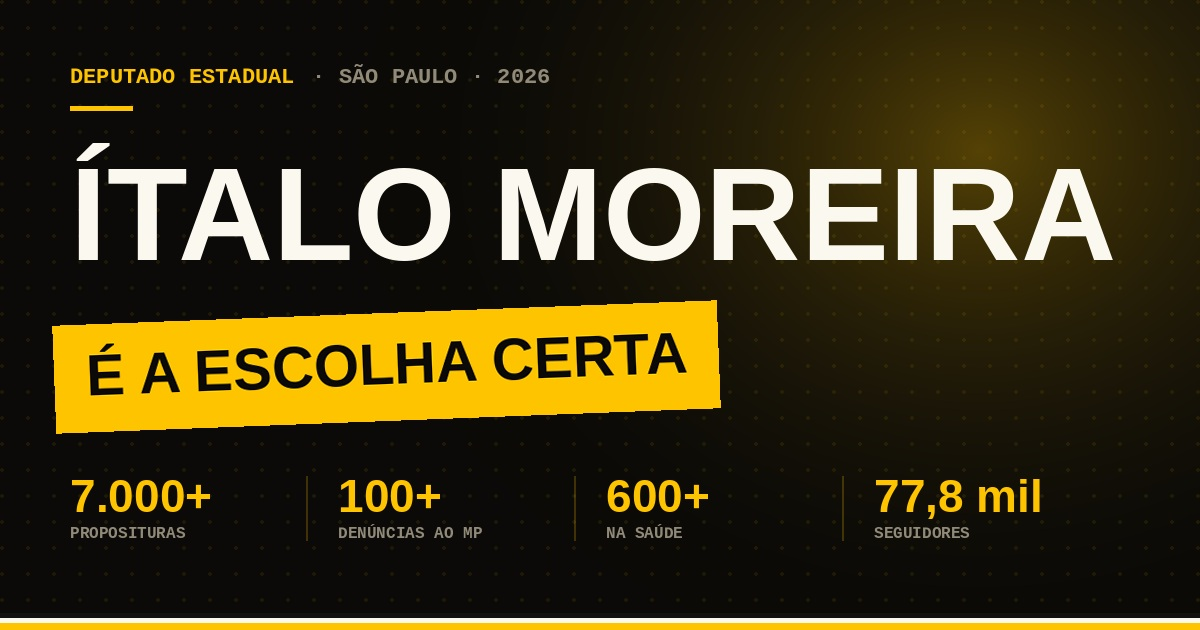
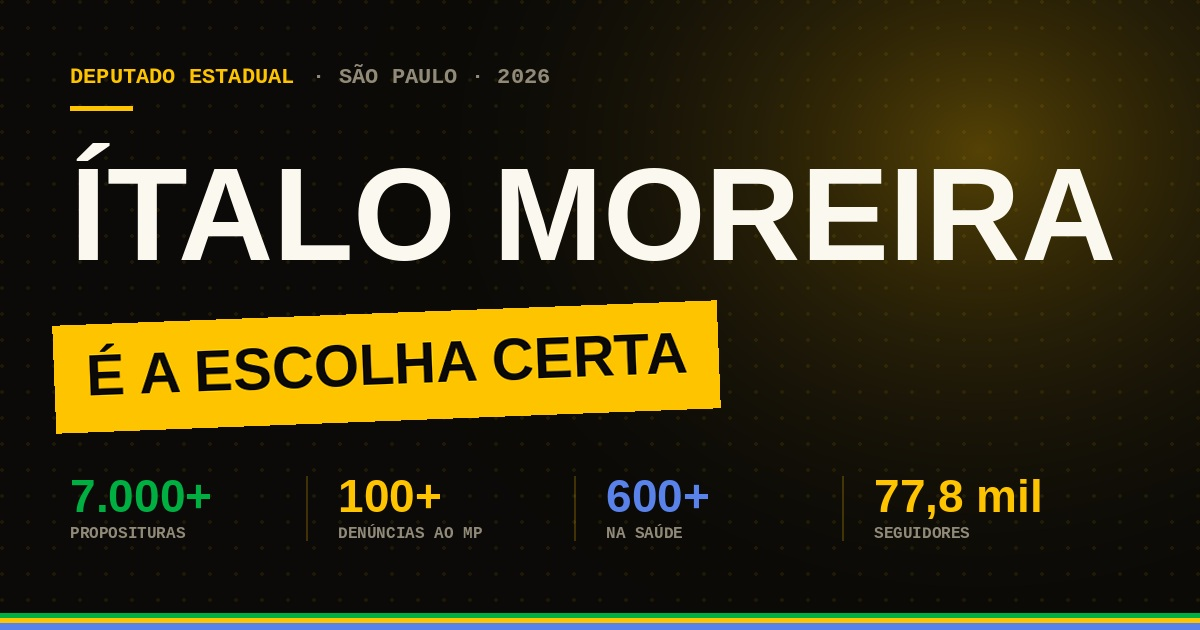
Clareia a pagina e traz as cores da bandeira como detalhe
Alterna secoes claras e escuras para dar respiro: numeros, fatos, Renan e
faca-parte passam a fundo claro, com costura tricolor entre os blocos. Verde
e azul entram nos numeros do mandato, icones, traco das sobrancelhas e barra
de progresso, com o amarelo fazendo a ponte entre Missao e bandeira.

Corrige negrito que ficava invisivel no fundo claro e adapta o tratamento das
fotos, que fora calibrado so para fundo escuro. Restaura a foto do topo a
pedido do cliente; a ressalva sobre a identidade fica registrada no LEIA-ME.

Claude-Session: https://claude.ai/code/session_011W89nM4SC4WJ6gK1msPnMM

Changed region(s): [[0.0, 0.9651, 1.0, 1.0], [0.0617, 0.754, 0.185, 0.8143], [0.4933, 0.754, 0.5858, 0.8143]]

diff --git a/index.html b/index.html
@@ -29,7 +29,18 @@
     --paper:#FBF8F0;
     --stone:#918A79;
     --line:rgba(255,196,0,.16);
-    --ok:#7DD87D;
+    --ok:#2E7D32;
+    /* bandeira: verde e azul entram como detalhe, amarelo faz a ponte com o Missão */
+    --verde:#009B3A;
+    --azul:#1B3C8F;
+    --verde-soft:rgba(0,155,58,.12);
+    --azul-soft:rgba(27,60,143,.12);
+    /* seções claras */
+    --claro:#F6F3EA;
+    --claro-2:#FFFFFF;
+    --tinta:#15130D;
+    --pedra-clara:#6E675A;
+    --linha-clara:rgba(21,19,13,.10);
     --radius:14px;
     --font-display:-apple-system,BlinkMacSystemFont,"Segoe UI",Roboto,"Helvetica Neue",Arial,sans-serif;
     --font-mono:ui-monospace,"SF Mono","Cascadia Mono","Roboto Mono",Menlo,Consolas,monospace;
@@ -55,8 +66,30 @@
     font-size:12px;letter-spacing:.28em;text-transform:uppercase;
     color:var(--onca);display:inline-flex;align-items:center;gap:10px;
   }
-  .eyebrow::before{content:"";width:34px;height:2px;background:var(--onca);display:inline-block}
+  /* traço tricolor: verde, amarelo e azul em 34px */
+  .eyebrow::before{
+    content:"";width:34px;height:3px;display:inline-block;border-radius:2px;
+    background:linear-gradient(90deg,var(--verde) 0 33%,var(--onca) 33% 66%,var(--azul) 66% 100%);
+  }
   .section{padding:110px 0;position:relative}
+
+  /* ---------- seções claras: o respiro da página ---------- */
+  .section.claro{
+    background:var(--claro);color:var(--tinta);
+    --stone:var(--pedra-clara);
+    --line:var(--linha-clara);
+    --frame-fade:var(--claro);
+  }
+  .section.claro .sec-lead{color:var(--pedra-clara)}
+  .section.claro .sec-title{color:var(--tinta)}
+  .section.claro .eyebrow{color:var(--verde)}
+  /* costura tricolor entre o escuro e o claro */
+  .section.claro::before,.section.claro::after{
+    content:"";position:absolute;left:0;right:0;height:4px;
+    background:linear-gradient(90deg,var(--verde) 0 33.33%,var(--onca) 33.33% 66.66%,var(--azul) 66.66% 100%);
+  }
+  .section.claro::before{top:0}
+  .section.claro::after{bottom:0;opacity:.35}
   .sec-title{
     font-weight:900;text-transform:uppercase;letter-spacing:-.02em;
     font-size:clamp(34px,5vw,58px);line-height:1.02;margin:18px 0 14px;
@@ -70,6 +103,8 @@
   }
   .hl>span{display:inline-block;transform:skew(6deg)}
   .num{font-variant-numeric:tabular-nums}
+  .forte{color:var(--paper);font-weight:800}
+  .section.claro .forte{color:var(--tinta)}
 
   /* reveal on scroll */
   .rv{opacity:0;transform:translateY(28px);transition:opacity .7s cubic-bezier(.2,.7,.2,1),transform .7s cubic-bezier(.2,.7,.2,1)}
@@ -78,7 +113,7 @@
   .rv.d4{transition-delay:.32s}.rv.d5{transition-delay:.4s}
 
   /* ---------- barra de progresso ---------- */
-  #progress{position:fixed;top:0;left:0;height:3px;width:0;background:linear-gradient(90deg,var(--onca),#FFE27A);z-index:99;box-shadow:0 0 12px rgba(255,196,0,.7)}
+  #progress{position:fixed;top:0;left:0;height:3px;width:0;background:linear-gradient(90deg,var(--verde),var(--onca) 50%,var(--azul));z-index:99;box-shadow:0 0 12px rgba(255,196,0,.55)}
 
   /* ---------- nav ---------- */
   nav{
@@ -198,9 +233,17 @@
     position:absolute;inset:0;z-index:2;pointer-events:none;opacity:0;transition:opacity .6s ease;
     background:
       radial-gradient(120% 80% at 50% 8%,rgba(255,196,0,.16),transparent 58%),
-      linear-gradient(180deg,transparent 48%,rgba(11,10,8,.70) 86%,var(--ink) 100%);
+      linear-gradient(180deg,transparent 52%,color-mix(in srgb, var(--frame-fade,var(--ink)) 70%, transparent) 86%,var(--frame-fade,var(--ink)) 100%);
   }
   .photo-frame.ready .duo{opacity:1}
+  .section.claro .duo{
+    background:
+      radial-gradient(120% 80% at 50% 8%,rgba(255,196,0,.10),transparent 60%),
+      linear-gradient(180deg,transparent 62%,rgba(21,19,13,.16) 92%,rgba(21,19,13,.24) 100%);
+  }
+  .section.claro .duo::after{opacity:.05}
+  .section.claro .ph-img{filter:grayscale(.12) contrast(1.04) saturate(.95)}
+  .section.claro .photo-frame::before{opacity:.14}
   .photo-frame .duo::after{
     content:"";position:absolute;inset:0;
     background:var(--onca);mix-blend-mode:color;opacity:.14;
@@ -234,6 +277,8 @@
     white-space:nowrap;padding:0 18px;display:flex;align-items:center;gap:18px;
   }
   .marquee .star{font-size:16px}
+  .marquee span i:nth-of-type(3n+1){color:var(--verde)}
+  .marquee span i:nth-of-type(3n+3){color:var(--azul)}
   @keyframes scroll{to{transform:translateX(-50%)}}
 
   /* ---------- números ---------- */
@@ -242,6 +287,16 @@
   }
   @media(max-width:920px){.stats-grid{grid-template-columns:repeat(2,1fr)}}
   @media(max-width:560px){.stats-grid{grid-template-columns:1fr}}
+  .section.claro .stat,.section.claro .prop{
+    background:var(--claro-2);
+    border-color:rgba(21,19,13,.10);
+    box-shadow:0 2px 10px rgba(21,19,13,.05);
+  }
+  .section.claro .stat .label,.section.claro .prop h3{color:var(--tinta)}
+  .section.claro .stat .note,.section.claro .prop p{color:var(--pedra-clara)}
+  .section.claro .stat:hover,.section.claro .prop:hover{
+    border-color:rgba(0,155,58,.35);box-shadow:0 18px 46px rgba(21,19,13,.12);
+  }
   .stat{
     background:linear-gradient(160deg,var(--coal),var(--ink));
     border:1px solid var(--line);border-radius:var(--radius);
@@ -251,13 +306,13 @@
   .stat:hover{transform:translateY(-6px);border-color:rgba(255,196,0,.45);box-shadow:0 18px 50px rgba(0,0,0,.5)}
   .stat::after{
     content:"";position:absolute;top:0;left:0;right:0;height:3px;
-    background:linear-gradient(90deg,var(--onca),transparent);
+    background:linear-gradient(90deg,var(--acento,var(--onca)),transparent);
     transform:scaleX(0);transform-origin:left;transition:transform .4s;
   }
   .stat:hover::after{transform:scaleX(1)}
   .stat .value{
-    font-weight:900;font-size:clamp(40px,4.6vw,56px);line-height:1;color:var(--onca);
-    letter-spacing:-.02em;
+    font-weight:900;font-size:clamp(40px,4.6vw,56px);line-height:1;
+    color:var(--acento,var(--onca));letter-spacing:-.02em;
   }
   .stat .value small{font-size:.55em;vertical-align:.32em}
   .stat .label{margin-top:10px;font-weight:700;font-size:15px}
@@ -268,17 +323,19 @@
   @media(max-width:920px){.facts{grid-template-columns:1fr}}
   .fact-list{display:flex;flex-direction:column;gap:0}
   .fact{
-    display:flex;gap:20px;padding:22px 6px;border-bottom:1px solid rgba(251,248,240,.08);
+    display:flex;gap:20px;padding:22px 6px;border-bottom:1px solid var(--line);
     transition:background .2s,padding-left .2s;
   }
-  .fact:hover{background:rgba(255,196,0,.04);padding-left:14px}
+  .fact:hover{background:var(--acento-soft,rgba(255,196,0,.06));padding-left:14px}
   .fact .ico{
     flex:0 0 46px;height:46px;border-radius:12px;display:flex;align-items:center;justify-content:center;
-    background:var(--onca-soft);border:1px solid var(--line);font-size:20px;color:var(--onca);
+    background:var(--acento-soft,var(--onca-soft));border:1px solid var(--line);font-size:20px;color:var(--acento,var(--onca));
   }
   .fact h4{font-size:17px;font-weight:800;margin-bottom:3px}
+  .section.claro .fact h4{color:var(--tinta)}
+  .section.claro .fact p{color:var(--pedra-clara)}
   .fact p{color:var(--stone);font-size:15px;line-height:1.55}
-  .fact p b{color:var(--paper)}
+  .fact p b{color:inherit;font-weight:800}
 
   /* ---------- propostas ---------- */
   .props-grid{display:grid;grid-template-columns:repeat(3,1fr);gap:22px;margin-top:56px}
@@ -303,15 +360,26 @@
   .prop p{color:var(--stone);font-size:15px}
   .prop .p-tag{
     position:absolute;top:20px;right:20px;font-family:var(--font-mono);
-    font-size:10px;letter-spacing:.18em;color:rgba(255,196,0,.55);text-transform:uppercase;
+    font-size:10px;letter-spacing:.18em;color:var(--acento,var(--onca));opacity:.6;text-transform:uppercase;
   }
 
   /* ---------- renan ---------- */
-  .renan{
+  .renan.claro{
     background:
-      radial-gradient(900px 500px at 20% 10%,rgba(255,196,0,.10),transparent 60%),
-      linear-gradient(180deg,var(--coal),var(--ink));
-    border-top:1px solid var(--line);border-bottom:1px solid var(--line);
+      radial-gradient(900px 520px at 18% 8%,rgba(0,155,58,.07),transparent 62%),
+      radial-gradient(700px 480px at 88% 92%,rgba(27,60,143,.06),transparent 60%),
+      var(--claro);
+  }
+  .renan.claro blockquote{border-left-color:var(--verde);color:var(--tinta)}
+  .renan.claro .chip{background:var(--claro-2);border-color:var(--linha-clara);color:var(--tinta)}
+  .renan.claro .chip b{color:var(--verde)}
+  .renan.claro .partido-band{background:var(--claro-2);border-color:var(--linha-clara)}
+  .renan.claro .partido-band p{color:var(--pedra-clara)}
+  .renan.claro .partido-band p b{color:var(--tinta)}
+  .renan.claro .photo-frame{
+    background:linear-gradient(160deg,#EDE8DC,#DFD8C8);
+    border-color:var(--linha-clara);
+    box-shadow:0 24px 60px rgba(21,19,13,.16);
   }
   .renan-grid{display:grid;grid-template-columns:.8fr 1.2fr;gap:56px;align-items:center}
   @media(max-width:920px){.renan-grid{grid-template-columns:1fr}}
@@ -450,6 +518,22 @@
   /* ---------- faça parte ---------- */
   .join-grid{display:grid;grid-template-columns:1fr 1fr;gap:60px;align-items:center;margin-top:40px}
   @media(max-width:920px){.join-grid{grid-template-columns:1fr}}
+  .section.claro form.join{
+    background:var(--claro-2);border-color:var(--linha-clara);
+    box-shadow:0 10px 40px rgba(21,19,13,.07);
+  }
+  .section.claro .field input,.section.claro .field select{
+    background:#FAF8F2;border-color:rgba(21,19,13,.16);color:var(--tinta);
+  }
+  .section.claro .field input::placeholder{color:rgba(21,19,13,.32)}
+  .section.claro .field input:focus,.section.claro .field select:focus{
+    border-color:var(--verde);box-shadow:0 0 0 3px rgba(0,155,58,.16);
+  }
+  .section.claro .join-list p{color:var(--pedra-clara)}
+  .section.claro .join-list p b{color:var(--tinta)}
+  .section.claro .join-list .item:nth-child(1) .n{background:var(--verde);color:#fff}
+  .section.claro .join-list .item:nth-child(3) .n{background:var(--azul);color:#fff}
+  .section.claro .join-ok{background:rgba(0,155,58,.08);border-color:rgba(0,155,58,.35);color:#1B6B2E}
   form.join{
     background:linear-gradient(165deg,var(--coal),var(--ink));
     border:1px solid var(--line);border-radius:20px;padding:40px 36px;
@@ -591,7 +675,7 @@
 </div>
 
 <!-- ======================= NÚMEROS ======================= -->
-<section class="section" id="mandato">
+<section class="section claro" id="mandato">
   <div class="wrap">
     <span class="eyebrow rv">O mandato em números</span>
     <h2 class="sec-title rv">Ninguém trabalhou<br>tanto quanto ele</h2>
@@ -600,35 +684,35 @@
       Não é promessa: é histórico comprovado.
     </p>
     <div class="stats-grid">
-      <div class="stat rv"><div class="value num" data-count="7000">0</div><div class="label">Proposituras apresentadas</div><div class="note">1º vereador da história de Sorocaba a ultrapassar 7 mil</div></div>
-      <div class="stat rv d1"><div class="value num" data-count="111">0</div><div class="label">Projetos aprovados</div><div class="note">Ainda no primeiro mandato</div></div>
-      <div class="stat rv d2"><div class="value num" data-count="2000" data-prefix="~">0</div><div class="label">Requerimentos de fiscalização</div><div class="note">O vereador que mais fiscalizou o Executivo</div></div>
-      <div class="stat rv d3"><div class="value num" data-count="100">0</div><div class="label">Denúncias ao Ministério Público</div><div class="note">E a outros órgãos de controle</div></div>
-      <div class="stat rv d4"><div class="value num" data-count="600">0</div><div class="label">Fiscalizações na saúde</div><div class="note">UBSs, UPHs e Prontos-Atendimentos visitados</div></div>
-      <div class="stat rv d5"><div class="value num" data-count="77" data-suffix=",8 mil">0</div><div class="label">Seguidores no Instagram</div><div class="note">@italomoreirasp — comunicação direta com o povo</div></div>
+      <div class="stat rv" style="--acento:var(--verde);--acento-soft:var(--verde-soft)"><div class="value num" data-count="7000">0</div><div class="label">Proposituras apresentadas</div><div class="note">1º vereador da história de Sorocaba a ultrapassar 7 mil</div></div>
+      <div class="stat rv d1" style="--acento:var(--onca);--acento-soft:var(--onca-soft)"><div class="value num" data-count="111">0</div><div class="label">Projetos aprovados</div><div class="note">Ainda no primeiro mandato</div></div>
+      <div class="stat rv d2" style="--acento:var(--azul);--acento-soft:var(--azul-soft)"><div class="value num" data-count="2000" data-prefix="~">0</div><div class="label">Requerimentos de fiscalização</div><div class="note">O vereador que mais fiscalizou o Executivo</div></div>
+      <div class="stat rv d3" style="--acento:var(--verde);--acento-soft:var(--verde-soft)"><div class="value num" data-count="100">0</div><div class="label">Denúncias ao Ministério Público</div><div class="note">E a outros órgãos de controle</div></div>
+      <div class="stat rv d4" style="--acento:var(--onca);--acento-soft:var(--onca-soft)"><div class="value num" data-count="600">0</div><div class="label">Fiscalizações na saúde</div><div class="note">UBSs, UPHs e Prontos-Atendimentos visitados</div></div>
+      <div class="stat rv d5" style="--acento:var(--azul);--acento-soft:var(--azul-soft)"><div class="value num" data-count="77" data-suffix=",8 mil">0</div><div class="label">Seguidores no Instagram</div><div class="note">@italomoreirasp — comunicação direta com o povo</div></div>
     </div>
   </div>
 </section>
 
 <!-- ======================= FATOS ======================= -->
-<section class="section" style="padding-top:0">
+<section class="section claro" style="padding-top:0">
   <div class="wrap">
     <div class="facts">
       <div>
         <span class="eyebrow rv">Fatos do vereador</span>
         <h2 class="sec-title rv">Histórico que<br><span class="hl"><span>fala por si</span></span></h2>
         <p class="sec-lead rv d1">
-          Eleito em 2024 com o número 44.190, Ítalo se tornou o <b style="color:var(--paper)">3º vereador mais
+          Eleito em 2024 com o número 44.190, Ítalo se tornou o <b class="forte">3º vereador mais
           votado da história de Sorocaba</b>, com 3,03% dos votos válidos da cidade — e transformou
           cada voto em trabalho.
         </p>
       </div>
       <div class="fact-list">
-        <div class="fact rv"><div class="ico">🏆</div><div><h4>Mais produtivo da história</h4><p>Primeiro parlamentar de Sorocaba a atingir <b>5 mil</b> e depois <b>7 mil proposituras</b> em um único mandato.</p></div></div>
-        <div class="fact rv d1"><div class="ico">🔍</div><div><h4>O que mais fiscalizou o Executivo</h4><p>Quase <b>2 mil requerimentos de fiscalização</b> e mais de <b>100 representações</b> no MP e órgãos de controle.</p></div></div>
-        <div class="fact rv d2"><div class="ico">🏥</div><div><h4>Presença real na saúde</h4><p>Mais de <b>600 fiscalizações</b> no tema saúde, com visitas presenciais a todas as UBSs, UPHs e PAs do município.</p></div></div>
-        <div class="fact rv d3"><div class="ico">✊</div><div><h4>Contra privilégios</h4><p>Votou <b>contra o aumento salarial dos vereadores</b>, contra cargos de indicação política e propôs a proibição de nepotismo no Executivo.</p></div></div>
-        <div class="fact rv d4"><div class="ico">💻</div><div><h4>Autor do Governo Digital</h4><p>Projeto que informatiza o serviço público: <b>consulta marcada de casa</b> e prontuário eletrônico na saúde.</p></div></div>
+        <div class="fact rv" style="--acento:var(--verde);--acento-soft:var(--verde-soft)"><div class="ico">🏆</div><div><h4>Mais produtivo da história</h4><p>Primeiro parlamentar de Sorocaba a atingir <b>5 mil</b> e depois <b>7 mil proposituras</b> em um único mandato.</p></div></div>
+        <div class="fact rv d1" style="--acento:var(--onca);--acento-soft:var(--onca-soft)"><div class="ico">🔍</div><div><h4>O que mais fiscalizou o Executivo</h4><p>Quase <b>2 mil requerimentos de fiscalização</b> e mais de <b>100 representações</b> no MP e órgãos de controle.</p></div></div>
+        <div class="fact rv d2" style="--acento:var(--azul);--acento-soft:var(--azul-soft)"><div class="ico">🏥</div><div><h4>Presença real na saúde</h4><p>Mais de <b>600 fiscalizações</b> no tema saúde, com visitas presenciais a todas as UBSs, UPHs e PAs do município.</p></div></div>
+        <div class="fact rv d3" style="--acento:var(--verde);--acento-soft:var(--verde-soft)"><div class="ico">✊</div><div><h4>Contra privilégios</h4><p>Votou <b>contra o aumento salarial dos vereadores</b>, contra cargos de indicação política e propôs a proibição de nepotismo no Executivo.</p></div></div>
+        <div class="fact rv d4" style="--acento:var(--onca);--acento-soft:var(--onca-soft)"><div class="ico">💻</div><div><h4>Autor do Governo Digital</h4><p>Projeto que informatiza o serviço público: <b>consulta marcada de casa</b> e prontuário eletrônico na saúde.</p></div></div>
       </div>
     </div>
   </div>
@@ -640,18 +724,18 @@
     <span class="eyebrow rv">Propostas para São Paulo</span>
     <h2 class="sec-title rv">A Missão continua.<br>Agora pelo Estado inteiro.</h2>
     <div class="props-grid">
-      <article class="prop rv"><span class="glow"></span><span class="p-tag">01</span><span class="p-ico">🗽</span><h3>Liberdade econômica</h3><p>Ampliar a Lei de Liberdade Econômica: menos burocracia, menos alvará, mais gente empreendendo e gerando emprego em São Paulo.</p></article>
-      <article class="prop rv d1"><span class="glow"></span><span class="p-tag">02</span><span class="p-ico">📱</span><h3>Governo digital na saúde</h3><p>Levar o modelo do Governo Digital para o Estado: consulta marcada pelo celular, prontuário eletrônico e fila transparente.</p></article>
-      <article class="prop rv d2"><span class="glow"></span><span class="p-tag">03</span><span class="p-ico">🔦</span><h3>Fiscalização implacável</h3><p>O método que virou referência em Sorocaba — auditoria de contratos milionários, transparência em licitação e denúncia ao MP — aplicado ao orçamento estadual.</p></article>
-      <article class="prop rv d3"><span class="glow"></span><span class="p-tag">04</span><span class="p-ico">🚀</span><h3>Sandbox &amp; inovação</h3><p>Expandir a Lei do Sandbox: ambiente regulatório para startups e novas tecnologias nascerem e testarem em São Paulo.</p></article>
-      <article class="prop rv d4"><span class="glow"></span><span class="p-tag">05</span><span class="p-ico">🛡</span><h3>Segurança pública</h3><p>Valorização das polícias, integração de dados e tecnologia no combate ao crime organizado.</p></article>
-      <article class="prop rv d5"><span class="glow"></span><span class="p-tag">06</span><span class="p-ico">🏗</span><h3>Serviços essenciais</h3><p>Defesa de saúde, trânsito, obras e segurança com a mesma cobrança dura que marcou o mandato na Câmara.</p></article>
+      <article class="prop rv" style="--acento:var(--verde);--acento-soft:var(--verde-soft)"><span class="glow"></span><span class="p-tag">01</span><span class="p-ico">🗽</span><h3>Liberdade econômica</h3><p>Ampliar a Lei de Liberdade Econômica: menos burocracia, menos alvará, mais gente empreendendo e gerando emprego em São Paulo.</p></article>
+      <article class="prop rv d1" style="--acento:var(--onca);--acento-soft:var(--onca-soft)"><span class="glow"></span><span class="p-tag">02</span><span class="p-ico">📱</span><h3>Governo digital na saúde</h3><p>Levar o modelo do Governo Digital para o Estado: consulta marcada pelo celular, prontuário eletrônico e fila transparente.</p></article>
+      <article class="prop rv d2" style="--acento:var(--azul);--acento-soft:var(--azul-soft)"><span class="glow"></span><span class="p-tag">03</span><span class="p-ico">🔦</span><h3>Fiscalização implacável</h3><p>O método que virou referência em Sorocaba — auditoria de contratos milionários, transparência em licitação e denúncia ao MP — aplicado ao orçamento estadual.</p></article>
+      <article class="prop rv d3" style="--acento:var(--verde);--acento-soft:var(--verde-soft)"><span class="glow"></span><span class="p-tag">04</span><span class="p-ico">🚀</span><h3>Sandbox &amp; inovação</h3><p>Expandir a Lei do Sandbox: ambiente regulatório para startups e novas tecnologias nascerem e testarem em São Paulo.</p></article>
+      <article class="prop rv d4" style="--acento:var(--onca);--acento-soft:var(--onca-soft)"><span class="glow"></span><span class="p-tag">05</span><span class="p-ico">🛡</span><h3>Segurança pública</h3><p>Valorização das polícias, integração de dados e tecnologia no combate ao crime organizado.</p></article>
+      <article class="prop rv d5" style="--acento:var(--azul);--acento-soft:var(--azul-soft)"><span class="glow"></span><span class="p-tag">06</span><span class="p-ico">🏗</span><h3>Serviços essenciais</h3><p>Defesa de saúde, trânsito, obras e segurança com a mesma cobrança dura que marcou o mandato na Câmara.</p></article>
     </div>
   </div>
 </section>
 
 <!-- ======================= RENAN ======================= -->
-<section class="section renan" id="presidente">
+<section class="section renan claro" id="presidente">
   <div class="wrap">
     <div class="renan-grid">
       <div class="rv">
@@ -679,7 +763,7 @@
         </blockquote>
         <p class="sec-lead rv d2">
           Fundador do MBL e presidente do Partido Missão, Renan Santos teve a candidatura à
-          Presidência da República oficializada em <b style="color:var(--paper)">1º de agosto de 2026</b>,
+          Presidência da República oficializada em <b class="forte">1º de agosto de 2026</b>,
           com o reservista Aroldo Medina como vice. Ítalo Moreira é parte dessa frente em São Paulo.
         </p>
         <div class="rs-facts rv d3">
@@ -780,7 +864,7 @@
 </section>
 
 <!-- ======================= FAÇA PARTE ======================= -->
-<section class="section" id="participe" style="padding-top:60px">
+<section class="section claro" id="participe">
   <div class="wrap">
     <div class="join-grid">
       <div>
@@ -829,11 +913,11 @@
       <div style="max-width:380px">
         <p style="font-family:var(--font-mono);font-size:11px;letter-spacing:.2em;text-transform:uppercase;color:var(--onca);margin-bottom:12px">Navegue</p>
         <p style="display:flex;flex-wrap:wrap;gap:8px 22px;font-size:14.5px">
-          <a href="#mandato" style="color:var(--paper)">Mandato</a>
-          <a href="#propostas" style="color:var(--paper)">Propostas</a>
-          <a href="#presidente" style="color:var(--paper)">Renan Santos</a>
-          <a href="#doar" style="color:var(--paper)">Doar</a>
-          <a href="#participe" style="color:var(--paper)">Participar</a>
+          <a href="#mandato" class="forte">Mandato</a>
+          <a href="#propostas" class="forte">Propostas</a>
+          <a href="#presidente" class="forte">Renan Santos</a>
+          <a href="#doar" class="forte">Doar</a>
+          <a href="#participe" class="forte">Participar</a>
         </p>
       </div>
     </div>

diff --git a/assets/LEIA-ME.md b/assets/LEIA-ME.md
@@ -1,41 +1,37 @@
 # Fotos da campanha
 
-## Estado atual
-
 | Item | Situação |
 |---|---|
+| `italo.jpg` | ✅ No ar (topo + avatar de reserva). **Ver ressalva abaixo.** |
 | `renan.jpg` | ✅ No ar. Recortada do original da Marcha da CNM, sem o logo da confederação nem a tarja do rodapé. |
 | `insta/avatar.jpg` | ✅ No ar. Recortado do print do perfil. |
 | `insta/post-01.jpg` … `post-09.jpg` | ✅ No ar. Os 9 primeiros posts reais do feed. |
 | `insta/destaque-vaquinha.jpg` | ✅ No ar. Destaque "Vaquinha!". |
-| `italo.jpg` | ❌ **Falta.** A foto enviada como `iTALO.jpg` é de outra pessoa — ver abaixo. |
+| `og.jpg` | ✅ Imagem de compartilhamento (WhatsApp e redes). Gerada por `ferramentas-og.py`. |
 
-## Atenção: a foto do topo ainda não é do Ítalo
+## Ressalva sobre a foto do topo
 
-O arquivo enviado como `iTALO.jpg` (fundo laranja) foi comparado com a foto
-oficial de urna legendada "ÍTALO MOREIRA" no post do próprio perfil e com o
-avatar do Instagram: **é outra pessoa**. Ele está guardado em
-`originais/FOTO-NAO-E-O-ITALO-conferir.jpg` e foi retirado da página.
+A foto usada como `italo.jpg` foi comparada com a foto oficial de urna legendada
+"ÍTALO MOREIRA" no post do próprio perfil e com o avatar do Instagram, e as
+feições não batem (linha do cabelo, formato do rosto). Ela está publicada por
+decisão do cliente, mas **confirme com o Ítalo antes da apresentação**. O
+original está em `originais/FOTO-NAO-E-O-ITALO-conferir.jpg`.
 
-Para completar, envie uma foto oficial do Ítalo e salve como `assets/italo.jpg`:
+Para trocar: substitua `assets/italo.jpg` mantendo o nome. Ideal vertical 4:5
+(1200×1500 px ou maior), rosto no terço superior. Fundo de qualquer cor — a
+página aplica o tratamento. Marca d'água no rodapé some sozinha.
 
-- vertical, proporção 4:5 (ideal 1200×1500 px ou maior);
-- rosto no terço superior;
-- fundo de qualquer cor — a página aplica o tratamento do Missão;
-- marca d'água no rodapé some sozinha.
-
-Enquanto o arquivo não existir, a moldura dourada de reserva aparece no lugar
-e nada quebra.
-
-## Trocar qualquer foto
-
-Basta substituir o arquivo mantendo o nome. Para ajustar o corte, mude
-`--pos` na moldura correspondente do `index.html`:
+Ajuste fino de corte: mude `--pos` na moldura correspondente do `index.html`.
 
 ```html
 <div class="photo-frame" style="--pos:50% 18%">
 ```
 
-Menor o segundo número, mais alto o corte fica na foto.
+## Cores
 
-`originais/` guarda tudo como foi enviado, incluindo o .zip do WhatsApp.
+- **Missão:** preto `#0B0A08`, branco `#FBF8F0`, amarelo `#FFC400` — a base.
+- **Bandeira:** verde `#009B3A` e azul `#1B3C8F` entram só como detalhe
+  (traço tricolor, números do mandato, ícones, costura entre seções).
+- Seções claras usam `#F6F3EA`; basta a classe `claro` na `<section>`.
+
+`originais/` guarda tudo como foi enviado e **não vai ao ar** (`.vercelignore`).
